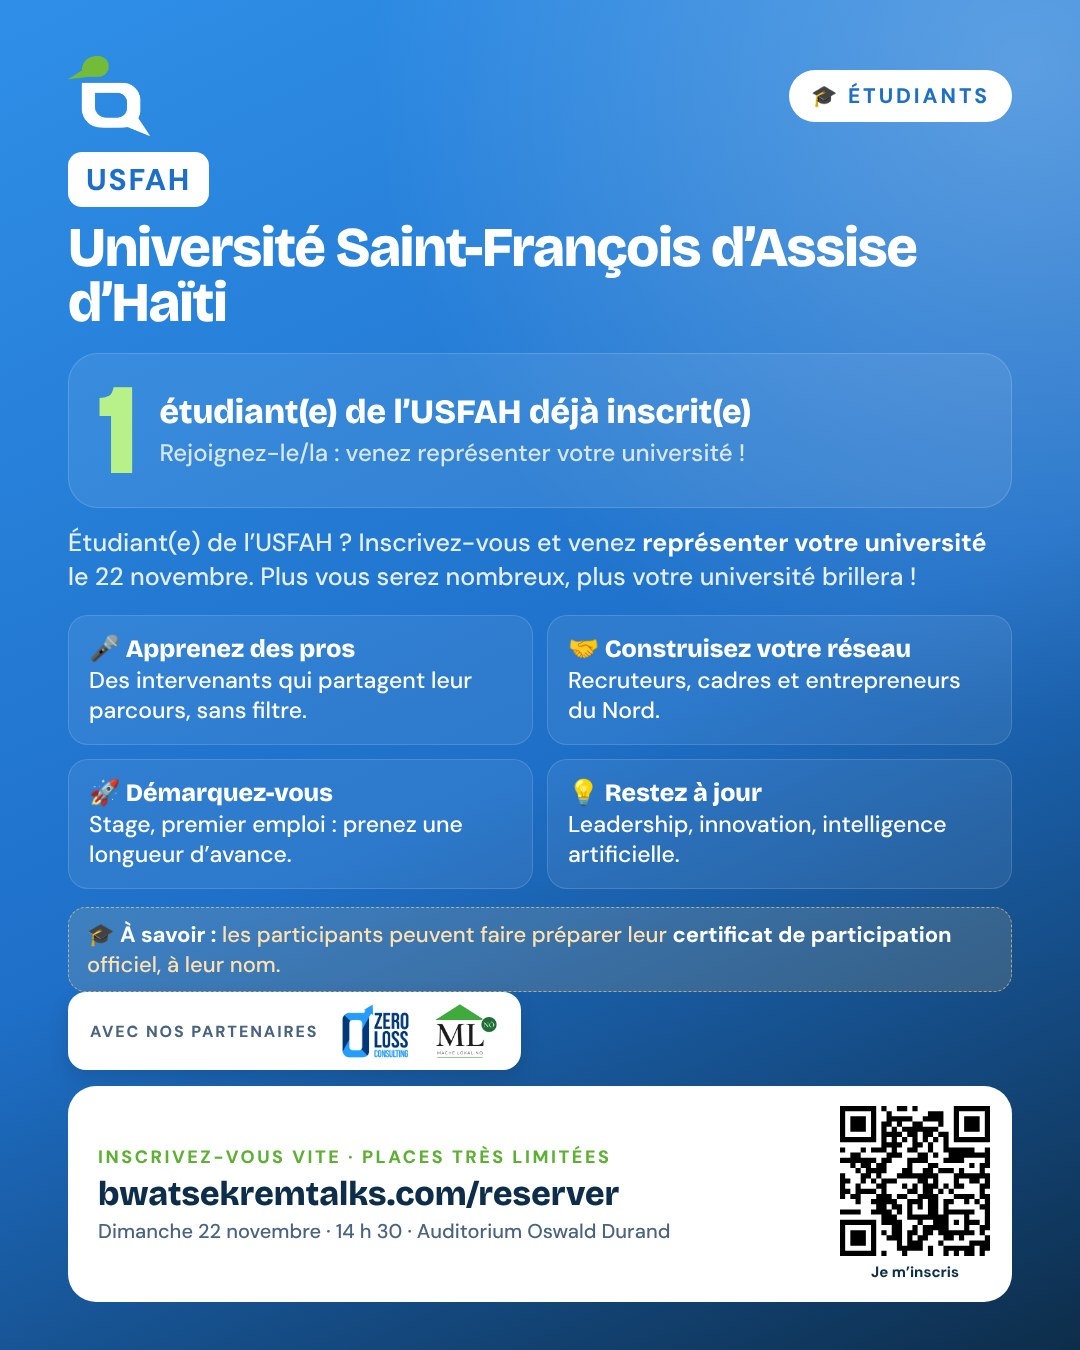
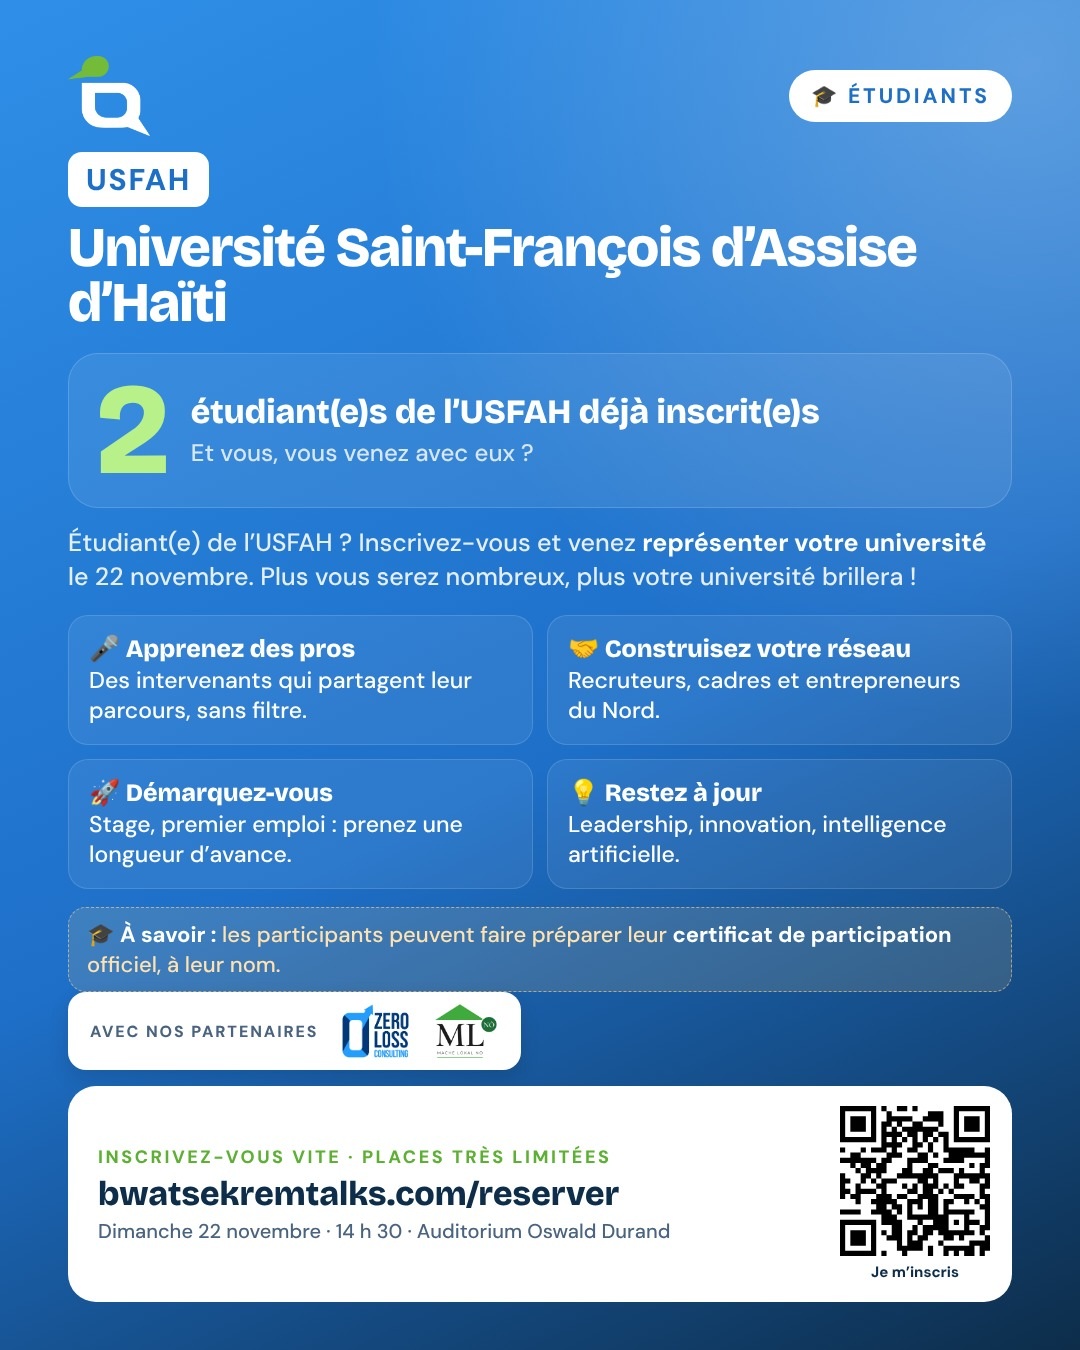
CRM : affiches étudiants mises à jour (202 étudiants, 30 universités) + textes global et par université
Claude-Session: https://claude.ai/code/session_0122zvvAsBzCm2JWrz3LrK24

Changed region(s): [[0.0917, 0.28, 0.7639, 0.3733]]

diff --git a/crm/index.html b/crm/index.html
@@ -358,23 +358,35 @@ On a hâte de vous retrouver le 22 novembre ! 💚
 
 📅 Dim. 22 nov. · 14 h 30 · Auditorium Oswald Durand, Cap-Haïtien
 #BwatSekremTalks #BST2026` },
-  { t: '🎓 Étudiants — les universités au rendez-vous', w: 'Réseaux sociaux, groupes d’étudiants', img: [['Affiche globale (1080×1350)', './afiches/etudiants/Etudiants-00-global.jpg'], ['Affiche globale · version claire', './afiches/etudiants/Etudiants-00-global-v2.jpg']], v: `🎓 Les universités sont au rendez-vous à Bwat Sekrèm Talks !
+  { t: '🎓 Étudiants — les universités au rendez-vous', w: 'Réseaux sociaux, groupes d’étudiants', img: [['Affiche globale (1080×1350)', './afiches/etudiants/Etudiants-00-global.jpg'], ['Affiche globale · version claire', './afiches/etudiants/Etudiants-00-global-v2.jpg']], v: `🎓 Les universités sont au rendez-vous !
 
-👉 177 étudiant(e)s déjà inscrit(e)s
-👉 29 universités et écoles représentées
+👉 202 étudiant(e)s déjà inscrit(e)s
+👉 30 universités et écoles représentées
 
-En tête : FDSEG/UEH (47), UPNCH (42), UNAF (16), CHCL/UEH (15), Emmaüs et UNDH (9)…
+En tête : FDSEG/UEH (51), UPNCH (48), CHCL/UEH (19), UNAF (18), UNDH (12), Emmaüs (11)…
 
 Votre université est-elle bien représentée ? Venez avec vos camarades le 22 novembre 💪
 Rencontrez des professionnels, construisez votre réseau et démarquez-vous pour votre stage ou votre premier emploi.
 
 🎓 À savoir : les participants peuvent faire préparer leur certificat de participation officiel, à leur nom.
 
-👉 Inscrivez-vous vite, les places sont très limitées : bwatsekremtalks.com/reserver
+👉 La salle est presque complète : inscrivez-vous vite sur bwatsekremtalks.com/reserver (liste d’attente ouverte, et le Live reste accessible à tous).
 
-📅 Dimanche 22 novembre · 14 h 30
-📍 Auditorium Oswald Durand, Cap-Haïtien
-#BwatSekremTalks #BST2026` },
+📅 Dim. 22 nov. · 14 h 30 · Auditorium Oswald Durand, Cap-Haïtien
+#BwatSekremTalks #BST2026 #Étudiants #CapHaïtien` },
+  { t: '🎓 Étudiants — affiche par université (texte à adapter)', w: 'Avec l’affiche de chaque université : remplacez [UNIVERSITÉ] et [N]', img: [['FDSEG/UEH (51)', './afiches/etudiants/Etudiants-01-FDSEGUEH.jpg'], ['UPNCH (48)', './afiches/etudiants/Etudiants-02-UPNCH.jpg'], ['CHCL/UEH (19)', './afiches/etudiants/Etudiants-04-CHCLUEH.jpg'], ['UNAF (18)', './afiches/etudiants/Etudiants-03-UNAF.jpg'], ['UNDH (12)', './afiches/etudiants/Etudiants-06-UNDH.jpg'], ['Emmaüs (11)', './afiches/etudiants/Etudiants-05-EMMAUS.jpg'], ['UNEXHN (7)', './afiches/etudiants/Etudiants-08-UNEXHN.jpg'], ['UNATH (5)', './afiches/etudiants/Etudiants-07-UNATH.jpg'], ['URHC (5)', './afiches/etudiants/Etudiants-09-URHC.jpg'], ['ISSBAN (3)', './afiches/etudiants/Etudiants-10-ISSBAN.jpg'], ['USPF (2)', './afiches/etudiants/Etudiants-11-USPF.jpg'], ['UPH (2)', './afiches/etudiants/Etudiants-12-UPH.jpg'], ['USFAH (2)', './afiches/etudiants/Etudiants-13-USFAH.jpg']], v: `🎓 [UNIVERSITÉ] répond présente !
+
+Déjà [N] étudiant(e)s de [UNIVERSITÉ] inscrit(e)s à Bwat Sekrèm Talks 🔥
+Et vous, vous venez avec eux ?
+
+Plus vous serez nombreux, plus votre université brillera le 22 novembre 💪
+Taguez vos camarades de [UNIVERSITÉ] 👇
+
+👉 Inscription : bwatsekremtalks.com/reserver
+📅 Dim. 22 nov. · 14 h 30 · Auditorium Oswald Durand, Cap-Haïtien
+#BwatSekremTalks #BST2026
+
+📲 Story / statut : 🎓 202 étudiants · 30 universités déjà inscrits ! Et la vôtre ? 👉 bwatsekremtalks.com/reserver` },
   { t: '💡 Conseils — 1. Préparez-vous', w: 'Trois ou quatre jours avant', img: [['Publication (1080×1350)', './afiches/conseils-prepa-post.jpg'], ['Story (1080×1920)', './afiches/conseils-prepa-story.jpg']], v: `💡 J-4 : préparez-vous comme un pro pour Bwat Sekrèm Talks !
 
 ⏰ Arrivez 20 à 30 minutes en avance pour l’accueil
